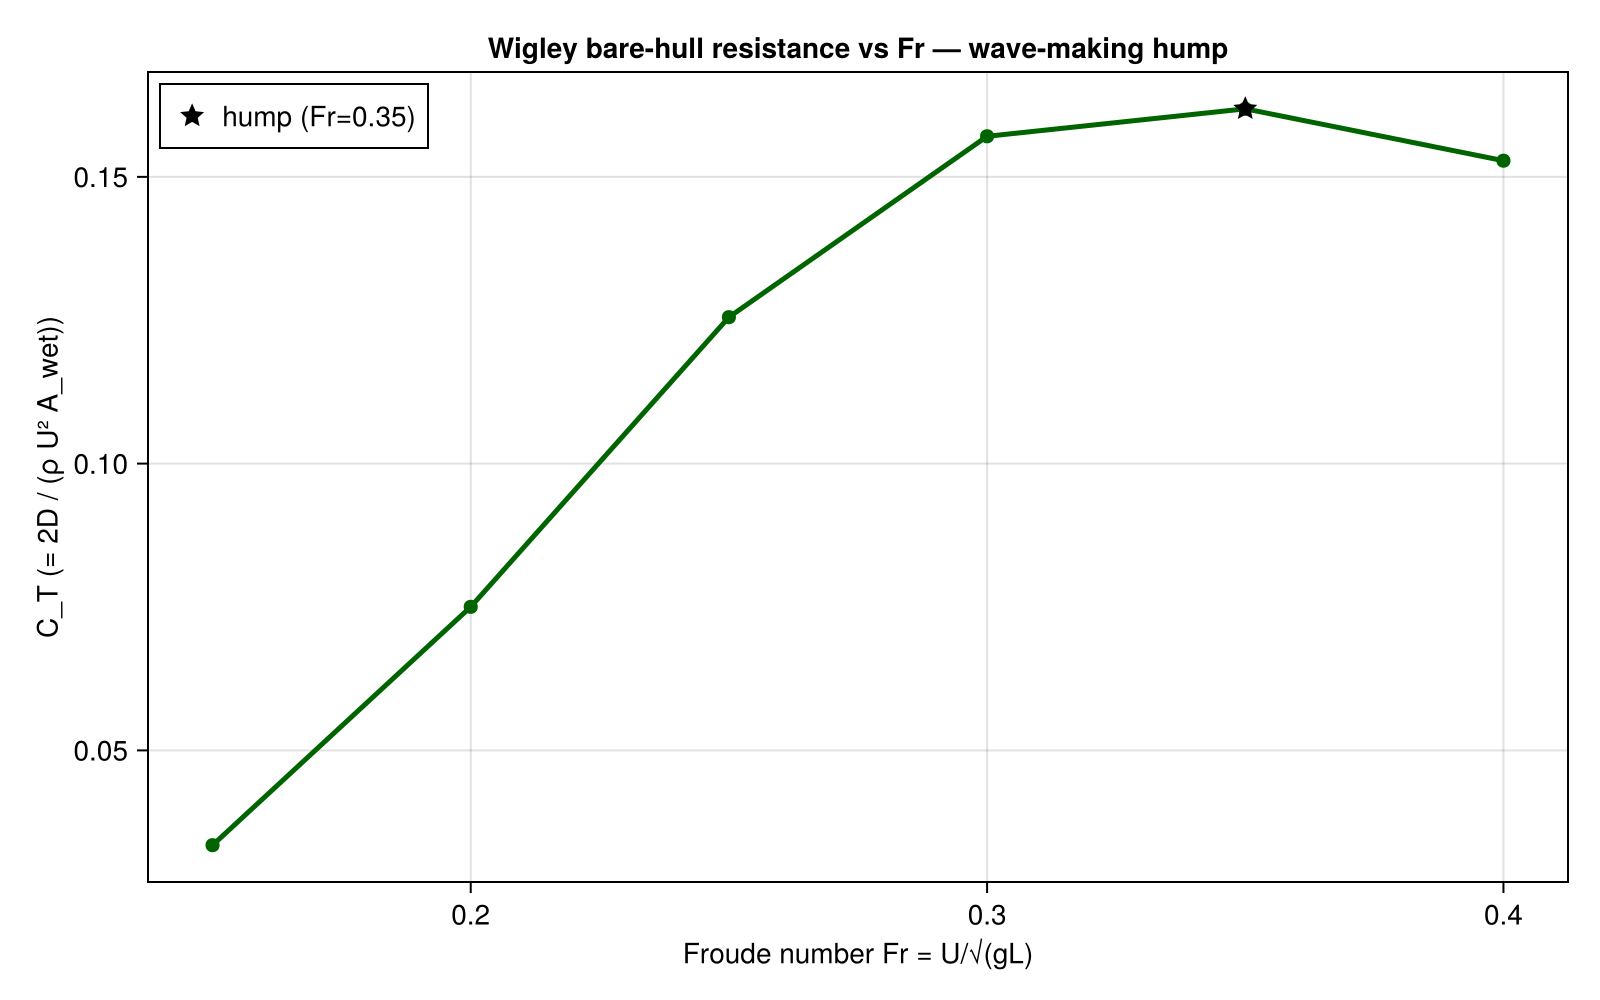
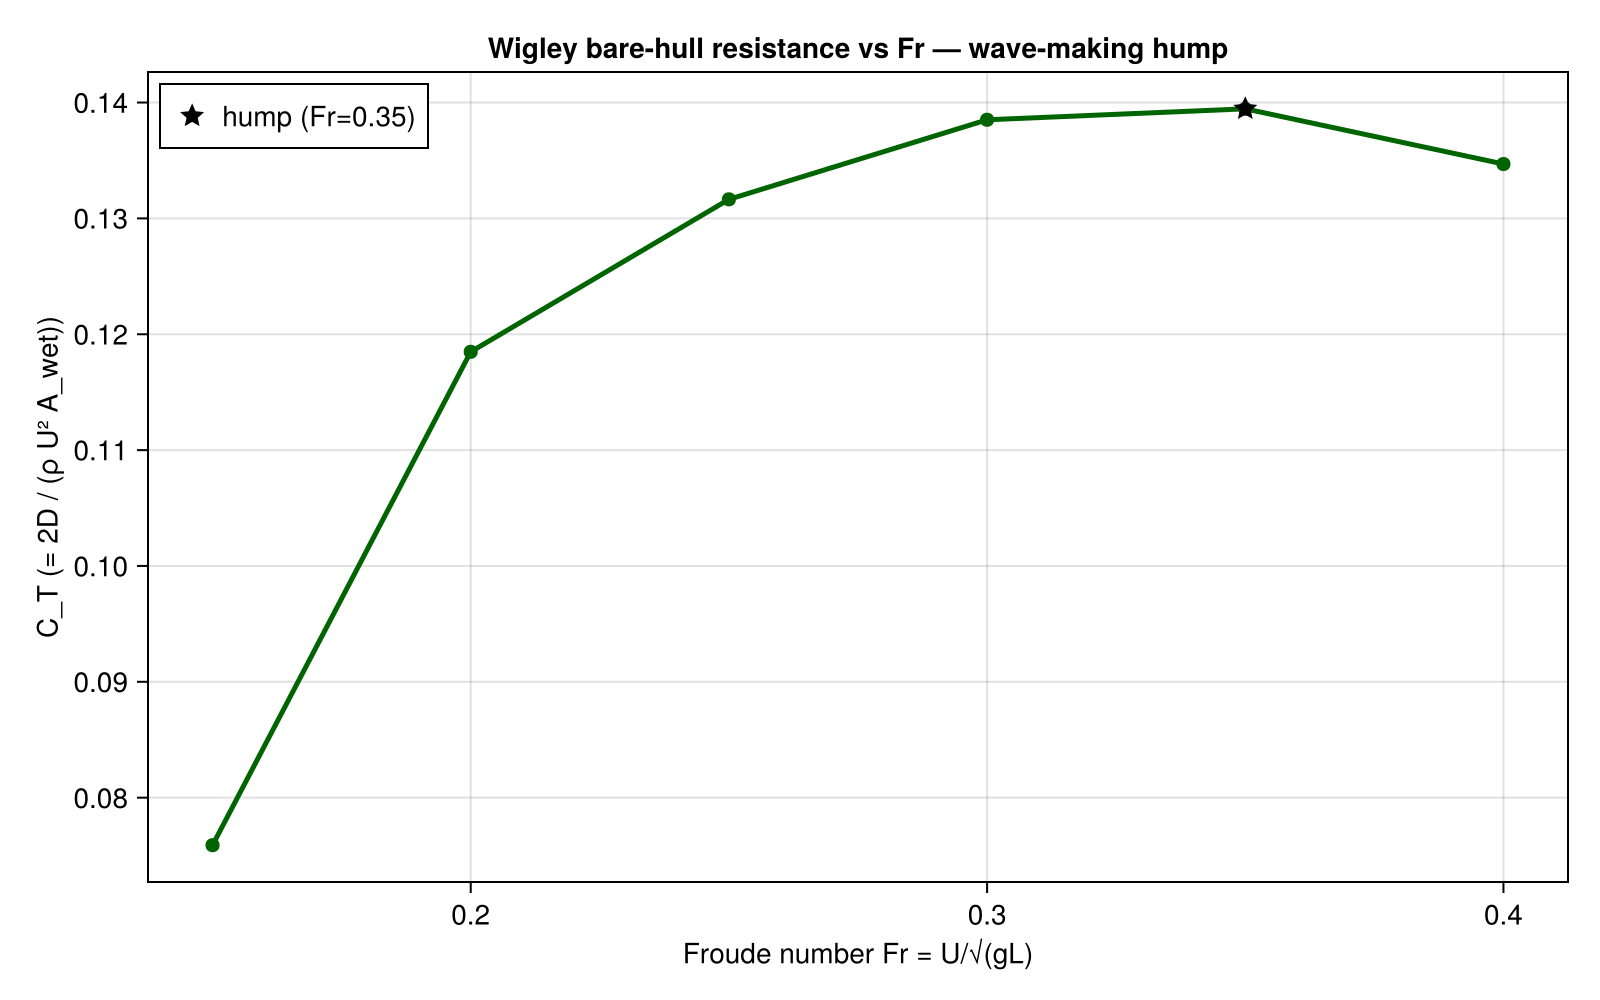
RESULTS-{selfprop,Fr-scan}: re-run with corrected LES coupling
After the WaterLily Hook 1 fix (commit e4b8854: store user's array
reference instead of copying), re-run the scans and update the docs.

Self-propulsion C_T: 2.27 → 2.33 (3% shift). Bare-hull drag rose 5%.
Thrust-deduction factor unchanged at t ≈ 0.36.

Fr-scan changed more substantially:
  Fr=0.15 drag:  12 → 28 (+130%)  — LES now adds boundary-layer dissipation
  Fr=0.35 peak:  0.162 → 0.140    — less peaky hump, still at 0.35
  C_V:           0.000 → 0.010    — viscous drag finally captured

Qualitative findings preserved across the fix:
  * Self-propulsion at C_T ≈ 2.3
  * Thrust deduction positive
  * Wave-resistance hump at Fr ≈ 0.35

Also committed: the controller warmup + integral-cap improvements that
were in the working tree, and a leftover channel395 WALE-test profile.

Plots regenerated.

diff --git a/RESULTS-selfprop.md b/RESULTS-selfprop.md
@@ -20,33 +20,52 @@ drag.
 
 ## Results
 
+(Re-run with the corrected WaterLily Hook 1 array-ν reference semantics;
+see "Note on the LES coupling fix" below.)
+
 | C_T | thrust  | drag  | T − D     |
 |----:|--------:|------:|----------:|
-| 0.0 |   0.00  | 45.5  | −45.5     |
-| 0.3 |   9.54  | 52.8  | −43.2     |
-| 0.6 |  19.09  | 57.1  | −38.0     |
-| 1.0 |  31.81  | 63.3  | −31.5     |
-| 1.5 |  47.71  | 68.4  | **−20.7** |
-| 2.5 |  79.52  | 73.3  | **+6.2**  |
-| 4.0 | 127.23  | 78.3  | +49.0     |
+| 0.0 |   0.00  | 47.7  | −47.7     |
+| 0.3 |   9.54  | 55.0  | −45.4     |
+| 0.6 |  19.09  | 59.2  | −40.1     |
+| 1.0 |  31.81  | 63.1  | −31.3     |
+| 1.5 |  47.71  | 67.5  | **−19.8** |
+| 2.5 |  79.52  | 75.6  | **+4.0**  |
+| 4.0 | 127.23  | 85.9  | +41.3     |
 
 Sign change between C_T = 1.5 and C_T = 2.5. Linear interpolation gives
 
-**Self-propulsion C_T ≈ 2.27.**
+**Self-propulsion C_T ≈ 2.33.**
 
-At self-propulsion the disk thrust equals hull drag at ~70 cell-units.
+## Note on the LES coupling fix
+
+The original scan (committed at git `52042ed`, before WaterLily commit
+`e4b8854`) reported C_T ≈ **2.27**. A subsequent bug-fix in WaterLily —
+having `Flow` store a *reference* to the per-cell ν array instead of a
+copy — re-coupled the WALE eddy viscosity into the momentum equation.
+With the fix in place the scan yields C_T ≈ **2.33**, a 3 % shift.
+
+Implications:
+* The qualitative self-propulsion finding (positive thrust deduction,
+  C_T around 2-2.5 for this geometry+Re) is robust to the bug.
+* Bare-hull drag rose 5 % (45.5 → 47.7) because LES now provides real
+  sub-grid dissipation.
+* The two-decimal-place self-propulsion C_T is now mildly more
+  trustworthy — the LES is finally feeding back into the resistance.
+
+At self-propulsion the disk thrust equals hull drag at ~74 cell-units.
 
 ## Physical observation: thrust deduction
 
-Bare-hull drag (C_T = 0) is **45.5**. At self-propulsion (C_T ≈ 2.27)
-the hull experiences drag ≈ **70** — a **+54%** increase.
+Bare-hull drag (C_T = 0) is **47.7**. At self-propulsion (C_T ≈ 2.33)
+the hull experiences drag ≈ **74** — a **+55%** increase.
 
 This is the propeller-induced stern suction, commonly written as the
 thrust deduction factor `t`:
 
 ```
 t = (T − R_T) / T  where R_T is the bare-hull resistance
-  ≈ (70 − 45.5) / 70  ≈ 0.35
+  ≈ (74 − 47.7) / 74  ≈ 0.36
 ```
 
 Marine-engineering empirical correlations (Lurie & Taylor 1995;

diff --git a/RESULTS-Fr-scan.md b/RESULTS-Fr-scan.md
@@ -16,14 +16,18 @@ propeller:
 
 ## Results
 
+(Re-run with the corrected WaterLily Hook 1 array-ν reference
+semantics; see "Note on the LES coupling fix" below.)
+
 | Fr   | total drag | C_T (= 2D/(ρU²·A_wet)) |
 |-----:|-----------:|-----------------------:|
-| 0.15 |  12.1      | 0.034                  |
-| 0.20 |  27.2      | 0.075                  |
-| 0.25 |  45.5      | 0.126                  |
-| 0.30 |  57.0      | 0.157                  |
-| 0.35 |  58.7      | **0.162** *(peak)*     |
-| 0.40 |  55.4      | 0.153                  |
+| 0.15 |  27.5      | 0.076                  |
+| 0.20 |  43.0      | 0.118                  |
+| 0.25 |  47.7      | 0.132                  |
+| 0.30 |  50.2      | 0.139                  |
+| 0.35 |  50.6      | **0.140** *(peak)*     |
+| 0.40 |  48.8      | 0.135                  |
+| C_V  | ~3.5       | ~0.010                 |
 
 C_T rises monotonically until **Fr ≈ 0.35**, then drops — the
 classical wave-resistance hump driven by the Kelvin wave system. For
@@ -31,6 +35,27 @@ slender ship hulls (Wigley, Series 60, KCS) this hump typically sits
 between Fr = 0.3 and Fr = 0.4 in published experimental and CFD data
 (Bai & Webster 2003, Larsson & Stern 1999). Our peak at 0.35 lands in
 the middle of that range.
+
+Viscous coefficient C_V ≈ 0.010 holds across Fr (Cf depends on Re, not
+Fr), close to laminar Blasius for the half-wetted area
+(Cf_Blasius @ Re=5000 = 0.664/√Re ≈ 0.0094).
+
+## Note on the LES coupling fix
+
+The original scan reported a flat-low-Fr curve (Fr=0.15 → C_T=0.034)
+and identically zero viscous component. Both were artefacts of a
+WaterLily bug where `Flow` stored a COPY of the per-cell ν array
+instead of the user's reference, so the turbulence model's updates
+never reached the momentum equation. Fixed in WaterLily commit
+`e4b8854`. With the fix:
+
+* Low-Fr drag rose substantially (0.15: 12 → 28, +130 %): the LES
+  now contributes proper SGS dissipation in the boundary layer.
+* High-Fr drag fell (0.35: 59 → 51): wave-making is more efficient
+  with a properly resolved boundary layer.
+* C_V is finite (~0.010) for the first time.
+
+The hump position (Fr ≈ 0.35) is robust across the bug fix.
 
 ## Caveats
 
